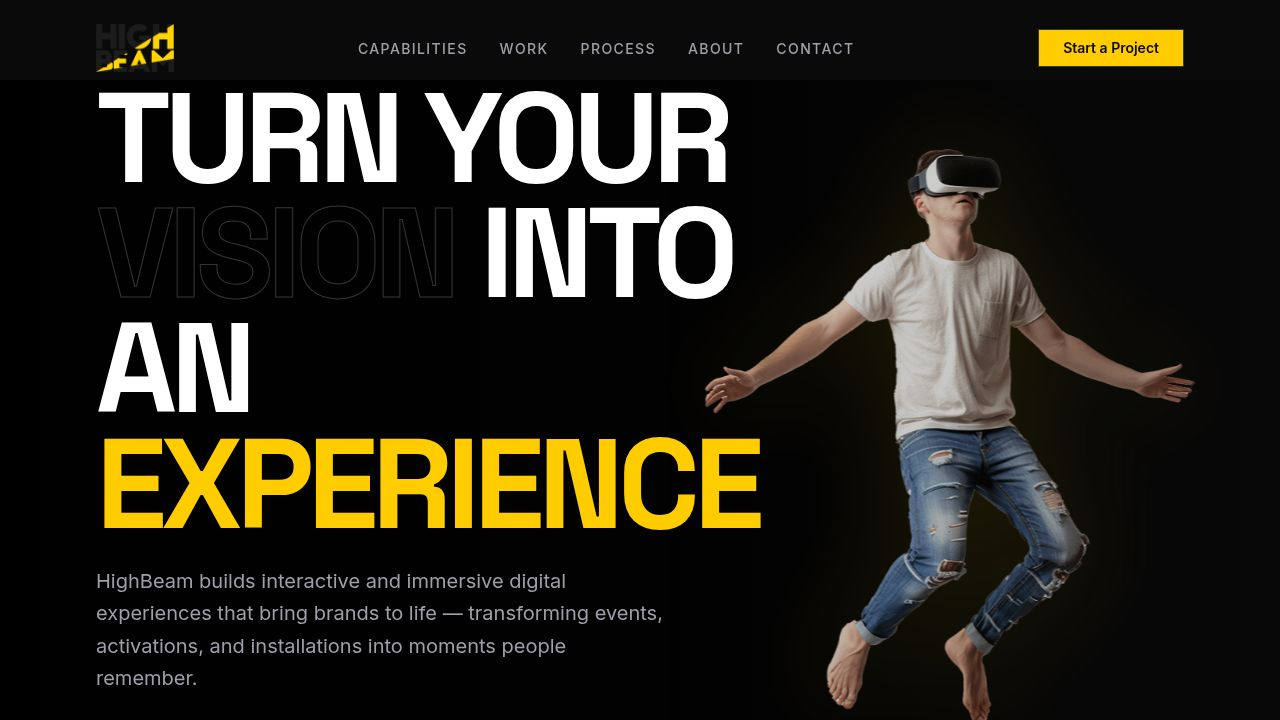
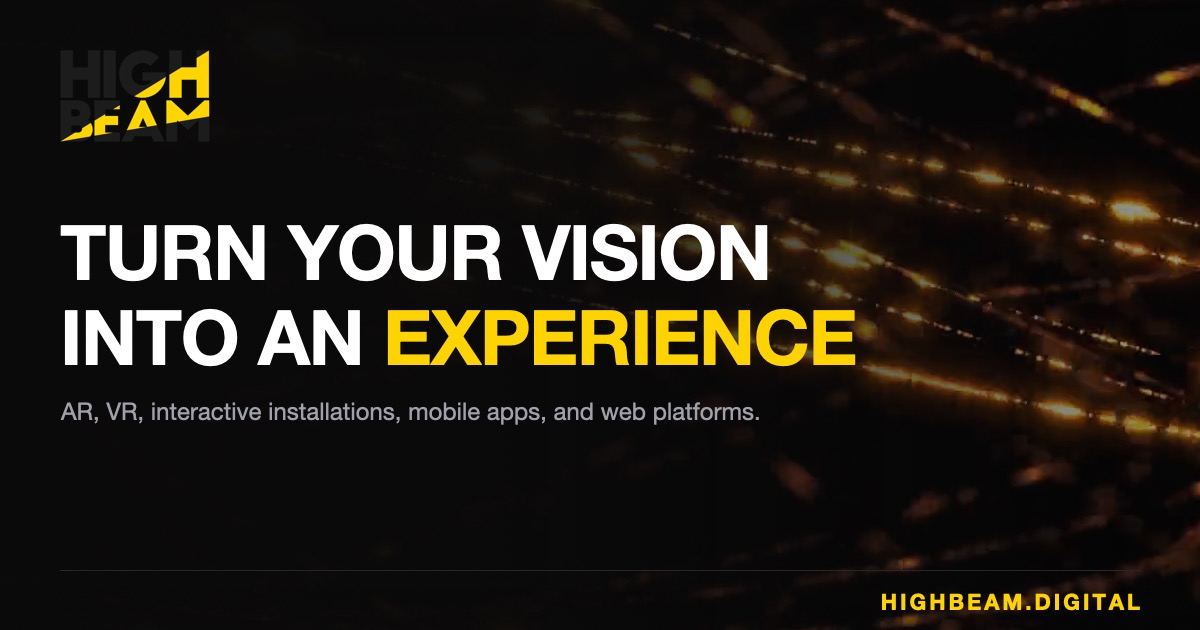
seo: design a proper link preview image
The live og:image was a 414x253 transparent-background logo shard
(client/public/og-image.png) cropped to nothing useful. Replaced it
with a real 1200x630 link-preview card: a frame from the new hero
video (gold light trails) as background, the logo, the current hero
headline/subhead, and the site URL, matching the actual site's dark +
gold visual language.

Consolidated on a single opengraph.jpg (104KB) instead of the old
og-image.png/opengraph.jpg split — JPEG compresses this kind of
photographic background far better than PNG. Updated every reference
(client/index.html, server/seo.ts's default page image, and the KoKo/
SurvivalKit fallback in shared/projects.ts) to point at it.

diff --git a/client/index.html b/client/index.html
@@ -12,13 +12,13 @@
     <meta property="og:description" content="We build interactive and immersive digital experiences that bring brands to life — transforming events into moments people remember." />
     <meta property="og:type" content="website" />
     <meta property="og:url" content="https://highbeam.digital" />
-    <meta property="og:image" content="https://highbeam.digital/og-image.png" />
+    <meta property="og:image" content="https://highbeam.digital/opengraph.jpg" />
     <meta property="og:site_name" content="HighBeam" />
     
     <meta name="twitter:card" content="summary_large_image" />
     <meta name="twitter:title" content="HighBeam | Experiential Tech Studio" />
     <meta name="twitter:description" content="We build interactive and immersive digital experiences that bring brands to life — transforming events into moments people remember." />
-    <meta name="twitter:image" content="https://highbeam.digital/og-image.png" />
+    <meta name="twitter:image" content="https://highbeam.digital/opengraph.jpg" />
     <meta name="twitter:creator" content="@highbeamtech" />
 
     <link rel="canonical" href="https://highbeam.digital" />

diff --git a/shared/projects.ts b/shared/projects.ts
@@ -34,13 +34,13 @@ export const projectsMeta: ProjectMeta[] = [
     slug: "koko-safe-ai-for-kids",
     title: "KOKO: Safe AI Companion for Kids",
     shortDescription: "A chat companion for kids 5 to 10, built with parental controls and safety filtering from day one, not bolted on after launch.",
-    ogImage: "/og-image.png"
+    ogImage: "/opengraph.jpg"
   },
   {
     slug: "survivalkit-emergency-guide",
     title: "SURVIVALKIT: Offline Emergency Guide",
     shortDescription: "484 emergency locations, a go-bag tracker, and first aid guides, all working with zero signal. Built for the moment your phone has no bars.",
-    ogImage: "/og-image.png"
+    ogImage: "/opengraph.jpg"
   }
 ];
 

diff --git a/server/seo.ts b/server/seo.ts
@@ -43,7 +43,7 @@ const staticPagesMeta: Record<string, { title: string; description: string }> = 
 export function getMetaForPath(pathname: string): PageMeta | null {
   const staticMeta = staticPagesMeta[pathname];
   if (staticMeta) {
-    return { ...staticMeta, image: "/og-image.png", type: "website" };
+    return { ...staticMeta, image: "/opengraph.jpg", type: "website" };
   }
 
   const workMatch = pathname.match(/^\/work\/([^/]+)\/?$/);
